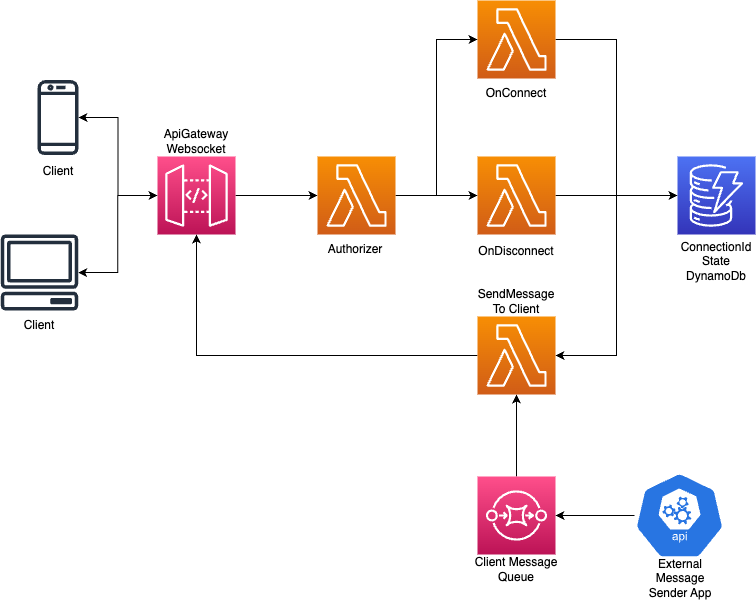
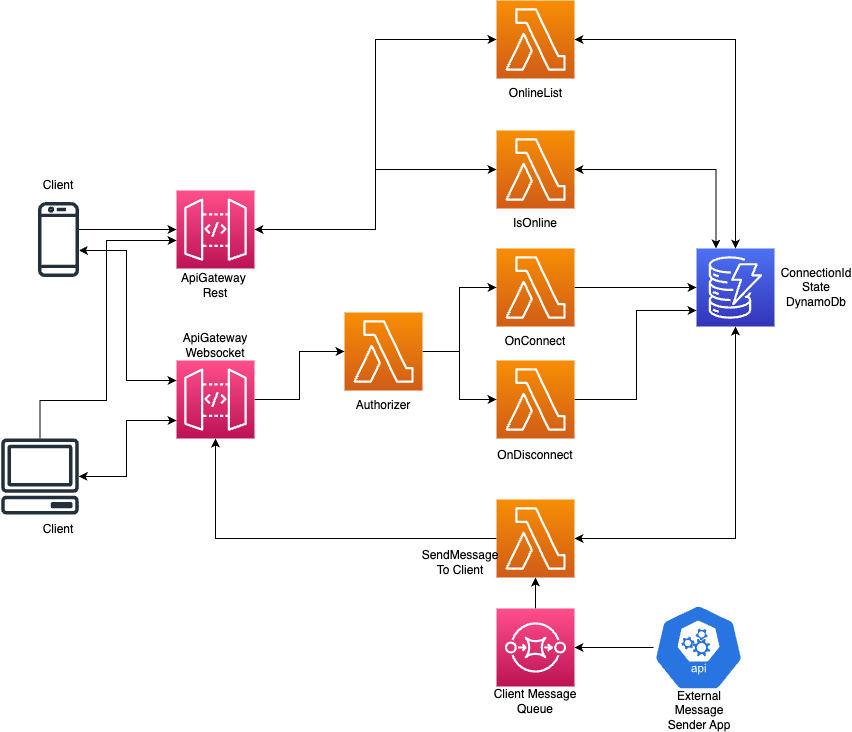
some improvements.

Changed region(s): [[0.0, 0.0, 1.0, 1.0], [0.1521, 0.45, 0.3042, 0.63], [0.3347, 0.48, 0.3651, 0.51]]

diff --git a/src/Adapter/Handler/SendMessageHandler.cs b/src/Adapter/Handler/SendMessageHandler.cs
@@ -21,10 +21,9 @@ public class SendMessageHandler
     public SendMessageHandler()
     {
         var serviceUrl = Environment.GetEnvironmentVariable("API_GATEWAY_ENDPOINT");
-        Console.WriteLine("API_GATEWAY_ENDPOINT: " + serviceUrl);
         _amazonApiGatewayManagementApi = new AmazonApiGatewayManagementApiClient(new AmazonApiGatewayManagementApiConfig
         {
-            ServiceURL = serviceUrl
+            ServiceURL = serviceUrl,
         });
         _userConnectionRepository = RepositoryFactory.CreateUserConnectionRepository();
     }

diff --git a/tests/Adapter.Tests/Handler/SendMessageHandlerTests.cs b/tests/Adapter.Tests/Handler/SendMessageHandlerTests.cs
@@ -201,6 +201,7 @@ namespace Adapter.Tests.Handler
         [Fact]
         public async Task Should_Valid_Default_Ctor()
         {
+            Environment.SetEnvironmentVariable("API_GATEWAY_ENDPOINT","http://localhost:4566");
             var handler = new SendMessageHandler();
         }
     }

diff --git a/src/Infrastructure/Repositories/DynamoDb/UserConnectionRepository.cs b/src/Infrastructure/Repositories/DynamoDb/UserConnectionRepository.cs
@@ -1,7 +1,6 @@
 using System.Net;
 using Amazon.DynamoDBv2;
 using Amazon.DynamoDBv2.Model;
-using Amazon.Util;
 using Domain.Entities;
 using Domain.Repositories;
 

diff --git a/src/Adapter/Handler/AuthorizerHandler.cs b/src/Adapter/Handler/AuthorizerHandler.cs
@@ -1,4 +1,3 @@
-using System.Text.Json;
 using Amazon.Lambda.APIGatewayEvents;
 using Amazon.Lambda.Core;
 using Domain.Services.Contract;
